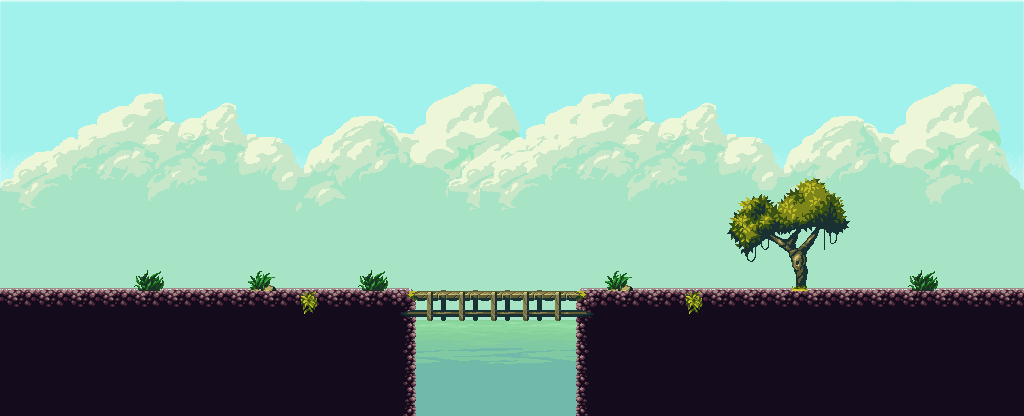
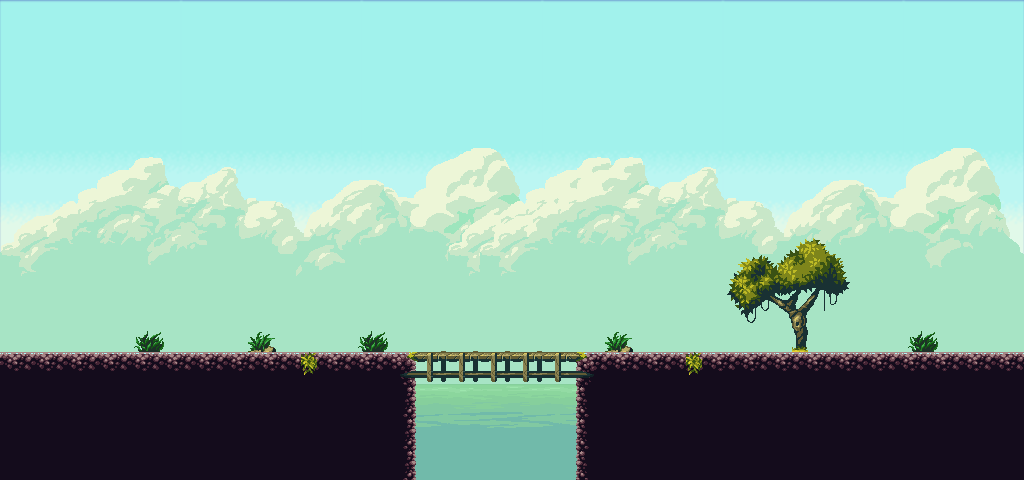
añadido enemigo(araña), pruebas con colisiones: quitar vida
pendiente: fondo en dos velocidades

Changed region(s): [[0.0, 0.1875, 1.0, 1.0], [0.0, 0.0, 1.0, 0.0312]]

diff --git a/src/es/pablob/postknightfx/Main.java b/src/es/pablob/postknightfx/Main.java
@@ -16,7 +16,10 @@ import javafx.scene.image.Image;
 import javafx.scene.image.ImageView;
 import javafx.scene.input.KeyCode;
 import javafx.scene.input.KeyEvent;
-//import javafx.scene.shape.Circle;
+import javafx.scene.shape.Rectangle;
+import javafx.scene.shape.Shape;
+//import javafx.scene.text.Font;
+//import javafx.scene.text.Text;
 
 /**
  *
@@ -30,12 +33,13 @@ public class Main extends Application {
     int bg2X = bgWidth;
     int bgCurrentSpeed = 0;
     int speed = 2;
-    int heroeWidht = 88;
+    int heroeWidth = 88;
     int heroeHeight = 64;
-    int heroeX = 2;
+    int heroeX = 10;
     int heroePosX = 200;
-    int heroeY = 270;
+    int sueloY = 290;
     int heroeSpeed = 0;
+    int hp = 200;
     
     @Override
     public void start(Stage primaryStage) {
@@ -45,7 +49,7 @@ public class Main extends Application {
         primaryStage.setScene(scene);
         primaryStage.show();
         
-        //imagenes de fondo
+        //FONDO:
         Image bg = new Image(getClass().getResourceAsStream("images/bg.png"));
         ImageView bg1 = new ImageView(bg);
         ImageView bg2 = new ImageView(bg);
@@ -53,10 +57,11 @@ public class Main extends Application {
         bg1.setFitHeight(root.getHeight());
         bg2.setFitHeight(root.getHeight());
         
+        //HEROE:
         //heroe corriendo
         Image runGif = new Image(getClass().getResourceAsStream("images/run.gif"));
         ImageView run = new ImageView(runGif);
-        run.setFitWidth(heroeWidht);
+        run.setFitWidth(heroeWidth);
         run.setFitHeight(heroeHeight);
         run.setVisible(false);
         
@@ -64,26 +69,52 @@ public class Main extends Application {
         Image idleGif = new Image(getClass().getResourceAsStream("images/idle.gif"));
         ImageView idle = new ImageView(idleGif);
         idle.setFitHeight(heroeHeight);
-        idle.setFitWidth(heroeWidht);
-
+        idle.setFitWidth(heroeWidth);
         
         //heroe atacando
         Image attackGif = new Image(getClass().getResourceAsStream("images/attack.gif"));
         ImageView attack = new ImageView(attackGif);
         attack.setFitHeight(heroeHeight);
-        attack.setFitWidth(heroeWidht);
+        attack.setFitWidth(heroeWidth);
         attack.setVisible(false);
         
+        //rectangulo para colision
+        Rectangle rectangleHeroe = new Rectangle(25, 8,32,56);
+        //rectangleHeroe.setVisible(false);
+        
         //grupo heroe
-        Group groupHeroe = new Group(run, idle, attack);
+        Group groupHeroe = new Group();
+        groupHeroe.getChildren().addAll(rectangleHeroe,run, idle, attack);
         groupHeroe.setLayoutX(heroeX);
-        groupHeroe.setLayoutY(heroeY);
+        groupHeroe.setLayoutY(sueloY);
         
-        //Rectangle rectanglePersonaje = new Rectangle(200,230,64,64);
-        //rectanglePersonaje.setFill(Color.TRANSPARENT);
+        //ENEMIGOS:
+        //araña:
+        Image spiderGif = new Image(getClass().getResourceAsStream("images/spider.gif"));
+        ImageView spider = new ImageView(spiderGif);
         
-        root.getChildren().addAll(bg1,bg2,groupHeroe);
         
+        Rectangle rectangleSpider = new Rectangle(12,16,36,36);
+        Group spiderGroup = new Group(rectangleSpider,spider );
+        spiderGroup.setLayoutX(100);
+        spiderGroup.setLayoutY(sueloY+15);
+        
+        //colision
+        
+        
+        //HP
+        /*
+        Rectangle rectangleHP = new Rectangle(60,15,200,15);
+        rectangleHP.setFill(Color.GREEN);
+        Text textHP = new Text("HP:");
+        textHP.setFill(Color.GREEN);
+        textHP.setX(10);
+        textHP.setY(30);
+        textHP.setFont(Font.font(22));
+        Group groupHP = new Group(textHP,rectangleHP);
+        */
+        
+        root.getChildren().addAll(bg1,bg2,groupHeroe,spiderGroup);
         
         AnimationTimer animationBG = new AnimationTimer() {
             @Override
@@ -92,9 +123,18 @@ public class Main extends Application {
                 bg2.setX(bg2X);
 
                 groupHeroe.setLayoutX(heroeX);
+                
                 heroeX -= heroeSpeed;
                 bg1X -= bgCurrentSpeed;
                 bg2X -= bgCurrentSpeed;
+                
+                //colision
+                Shape shapeColision = Shape.intersect(rectangleHeroe,rectangleSpider);
+                boolean colisionVacia = shapeColision.getBoundsInLocal().isEmpty();
+                if (colisionVacia == false) {
+                    hp -= 5;
+                    System.out.println(hp);
+                }
                 
                 if(bg1X == -bgWidth) {
                     root.getChildren().remove(bg1);
@@ -129,19 +169,7 @@ public class Main extends Application {
                     heroeSpeed = 0;
                     bgCurrentSpeed = speed; 
                 }
-            }   
-        });
-        scene.addEventHandler(KeyEvent.KEY_RELEASED, (key) -> {
-            if(key.getCode()==KeyCode.RIGHT) {
-                idle.setVisible(true);
-                run.setVisible(false);
-                
-                bgCurrentSpeed = 0;
-                heroeSpeed = 0;
-            }   
-        });
-        scene.addEventHandler(KeyEvent.KEY_PRESSED, (key) -> {
-            if(key.getCode()==KeyCode.LEFT) {
+            } else if(key.getCode()==KeyCode.LEFT) {
                 groupHeroe.setScaleX(-1);
                 idle.setVisible(false);
                 run.setVisible(true);
@@ -152,35 +180,34 @@ public class Main extends Application {
                 } else {
                     heroeSpeed = 2;
                 }  
-            };   
-        });
-        scene.addEventHandler(KeyEvent.KEY_RELEASED, (key) -> {
-            if(key.getCode()==KeyCode.LEFT) {
-                idle.setVisible(true);
-                run.setVisible(false);
-                bgCurrentSpeed = 0;
-                heroeSpeed = 0;
-            }   
-        });
-        scene.addEventHandler(KeyEvent.KEY_PRESSED, (key) -> {
-            if(key.getCode()==KeyCode.A) {
+            } else if(key.getCode()==KeyCode.A) {
                 idle.setVisible(false);
                 run.setVisible(false);
                 attack.setVisible(true);
                 bgCurrentSpeed = 0;
                 heroeSpeed = 0;
-            }   
+            }       
         });
         scene.addEventHandler(KeyEvent.KEY_RELEASED, (key) -> {
-            if(key.getCode()==KeyCode.A) {
+            if(key.getCode()==KeyCode.RIGHT) {
+                idle.setVisible(true);
+                run.setVisible(false);
+                bgCurrentSpeed = 0;
+                heroeSpeed = 0;
+            } else if(key.getCode()==KeyCode.LEFT) {
+                idle.setVisible(true);
+                run.setVisible(false);
+                bgCurrentSpeed = 0;
+                heroeSpeed = 0;
+            } else if(key.getCode()==KeyCode.A) {
                 idle.setVisible(true);
                 run.setVisible(false);
                 attack.setVisible(false);
                 bgCurrentSpeed = 0;
                 heroeSpeed = 0;
-            }   
+            }    
         });
-        
+   
     }
     
     /**
